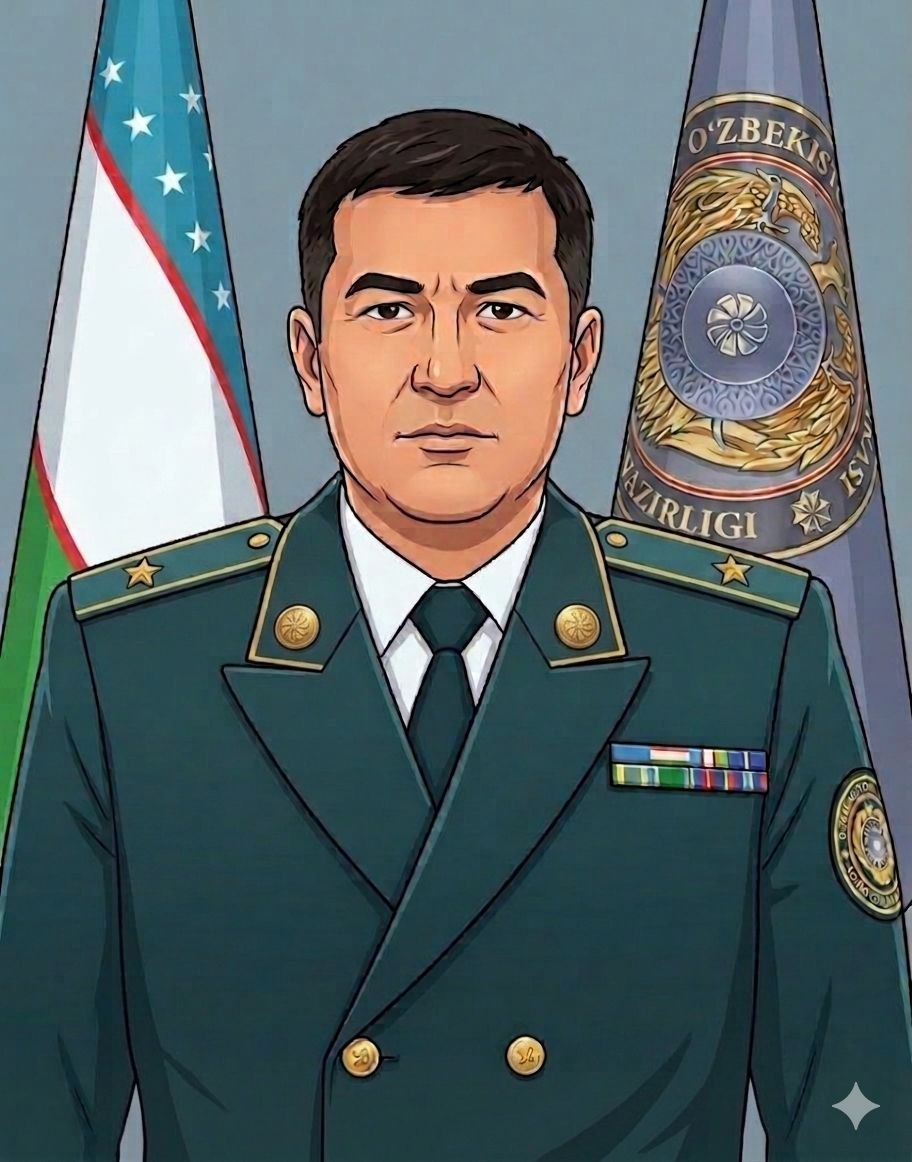
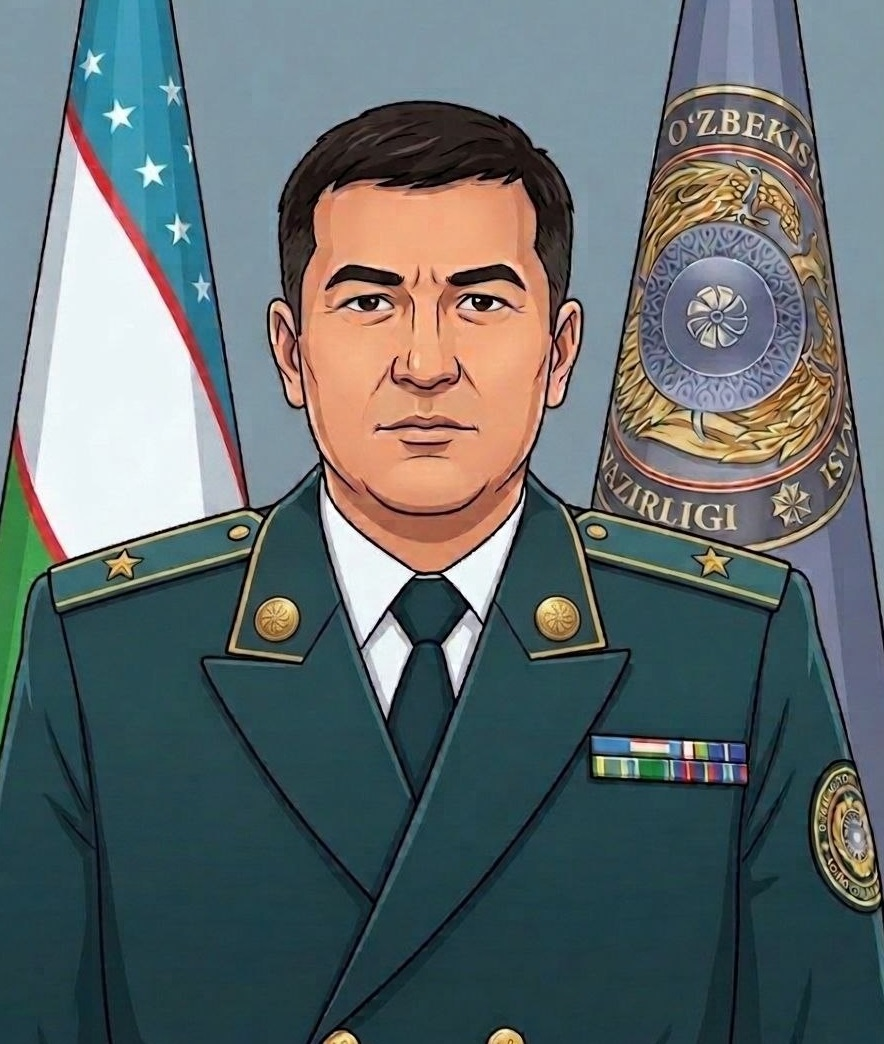
Fullscreen image: remove hologram border/bg, expand video container to fill screen

diff --git a/src/index.css b/src/index.css
@@ -135,18 +135,18 @@ body {
 
 /* === HOLOGRAM CONTAINER === */
 .hologram-container {
-  position: relative;
-  width: 100%;
-  max-width: 400px;
-  aspect-ratio: 3 / 4;
-  border-radius: 50% 50% 5% 5% / 60% 60% 5% 5%;
-  background: linear-gradient(180deg, rgba(0, 243, 255, 0.05) 0%, rgba(212, 175, 55, 0.05) 100%);
-  box-shadow:
-    0 0 50px rgba(212, 175, 55, 0.3),
-    0 0 100px rgba(0, 243, 255, 0.15),
-    inset 0 0 50px rgba(0, 0, 0, 0.5);
-  overflow: hidden;
-  border: 1px solid rgba(212, 175, 55, 0.3);
+  position: fixed;
+  top: 0;
+  left: 0;
+  width: 100vw;
+  height: 100vh;
+  max-width: none;
+  background: none;
+  box-shadow: none;
+  border: none;
+  border-radius: 0;
+  overflow: visible;
+  z-index: 5;
 }
 
 /* Scanline overlay */
@@ -620,13 +620,16 @@ body {
 
 /* === CHARACTER VIDEO CONTAINER === */
 .character-video-container {
-  width: 252px;
-  height: 252px;
-  border-radius: 50%;
+  position: fixed !important;
+  top: 0 !important;
+  left: 0 !important;
+  width: 100vw !important;
+  height: 100vh !important;
+  border-radius: 0 !important;
   overflow: hidden;
-  border: 3px solid var(--color-regal-gold);
-  box-shadow: 0 0 40px rgba(212, 175, 55, 0.6), inset 0 0 20px rgba(0, 0, 0, 0.5);
-  background: rgba(5, 19, 43, 0.8);
+  border: none !important;
+  box-shadow: none !important;
+  background: radial-gradient(circle at center, #1a1f35 0%, #020b1c 100%);
   transition: transform 0.1s ease;
 }
 
@@ -1192,17 +1195,21 @@ body {
   }
 
   .hologram-container {
-    width: 85vw;
-    max-width: 340px;
-    aspect-ratio: 3 / 4;
-    padding: 20px;
-    border-radius: 40% 40% 5% 5% / 50% 50% 5% 5%;
+    width: 100vw;
+    max-width: none;
+    aspect-ratio: unset;
+    padding: 0;
+    border-radius: 0;
   }
 
-  /* Video panel - larger and centered */
+  /* Video panel - fullscreen */
   .character-video-container {
-    width: 212px !important;
-    height: 212px !important;
+    position: fixed !important;
+    top: 0 !important;
+    left: 0 !important;
+    width: 100vw !important;
+    height: 100vh !important;
+    border-radius: 0 !important;
   }
 
   /* Name below video */
@@ -1370,13 +1377,17 @@ body {
   }
 
   .hologram-container {
-    width: 90vw;
-    max-width: 300px;
+    width: 100vw;
+    max-width: none;
   }
 
   .character-video-container {
-    width: 172px !important;
-    height: 172px !important;
+    position: fixed !important;
+    top: 0 !important;
+    left: 0 !important;
+    width: 100vw !important;
+    height: 100vh !important;
+    border-radius: 0 !important;
   }
 
   .hologram-container .gold-calligraphy.text-2xl {

diff --git a/src/components/HologramStage.jsx b/src/components/HologramStage.jsx
@@ -18,7 +18,7 @@ const HologramStage = ({
     return (
         <motion.div
             className="hologram-container materialize-enter"
-            animate={{ y: [0, -15, 0] }}
+            animate={{ y: 0 }}
             transition={{
                 duration: 4,
                 repeat: Infinity,
@@ -29,46 +29,45 @@ const HologramStage = ({
             {/* Scanning Line (Vision Mode) */}
             {isVisionEnabled && <div className="scanning-line" />}
 
-            {/* Character Display */}
-            <div className="absolute inset-0 flex flex-col items-center justify-center p-8">
-                {/* General Rasm */}
-                <motion.div
-                    className="character-video-container"
-                    animate={{ scale: 1 + volume * 0.15 }}
-                    transition={{ duration: 0.1 }}
-                    style={{ position: 'relative' }}
-                >
-                    <img
-                        src={GENERAL_IMAGE}
-                        alt="General"
-                        style={{
-                            width: '100%',
-                            height: '100%',
-                            objectFit: 'cover',
-                            position: 'absolute',
-                            top: 0,
-                            left: 0,
-                            transition: 'filter 0.5s ease-in-out',
-                            filter: isLive ? 'none' : 'grayscale(30%) brightness(0.8)',
-                            borderRadius: 'inherit',
-                        }}
-                    />
+            {/* General Rasm - Fullscreen */}
+            <motion.div
+                className="character-video-container"
+                animate={{ scale: 1 + volume * 0.04 }}
+                transition={{ duration: 0.1 }}
+            >
+                <img
+                    src={GENERAL_IMAGE}
+                    alt="General"
+                    style={{
+                        width: '100%',
+                        height: '100%',
+                        objectFit: 'contain',
+                        objectPosition: 'center center',
+                        display: 'block',
+                        transition: 'filter 0.5s ease-in-out',
+                        filter: isLive ? 'none' : 'grayscale(30%) brightness(0.8)',
+                    }}
+                />
+            </motion.div>
 
-                    {/* Invisible spacer to maintain container size */}
-                    <div style={{ width: '100%', paddingBottom: '100%' }} />
-                </motion.div>
-
-                {/* Character Name */}
-                <h2 className="gold-calligraphy text-2xl mt-6 text-center">
+            {/* Overlay: Character Name + Status (bottom center) */}
+            <div style={{
+                position: 'fixed',
+                bottom: '120px',
+                left: '50%',
+                transform: 'translateX(-50%)',
+                textAlign: 'center',
+                zIndex: 30,
+                pointerEvents: 'none',
+            }}>
+                <h2 className="gold-calligraphy text-2xl">
                     {personaName || 'Andijon IIB Maslahatchisi'}
                 </h2>
-
-                {/* Status Text */}
-                <p className="text-xs tracking-widest mt-4" style={{ color: isLive ? '#00f3ff' : '#666' }}>
+                <p className="text-xs tracking-widest mt-4" style={{ color: isLive ? '#00f3ff' : '#666', marginTop: '10px' }}>
                     {isLive
                         ? (personaState === 'speaking' || personaState === 'greeting'
                             ? 'JAVOB BERILMOQDA'
-                            : (isVisionEnabled ? 'KO\'RISH FAOL' : 'ESHITILMOQDA'))
+                            : (isVisionEnabled ? "KO'RISH FAOL" : 'ESHITILMOQDA'))
                         : 'ULANMOQDA...'}
                 </p>
             </div>